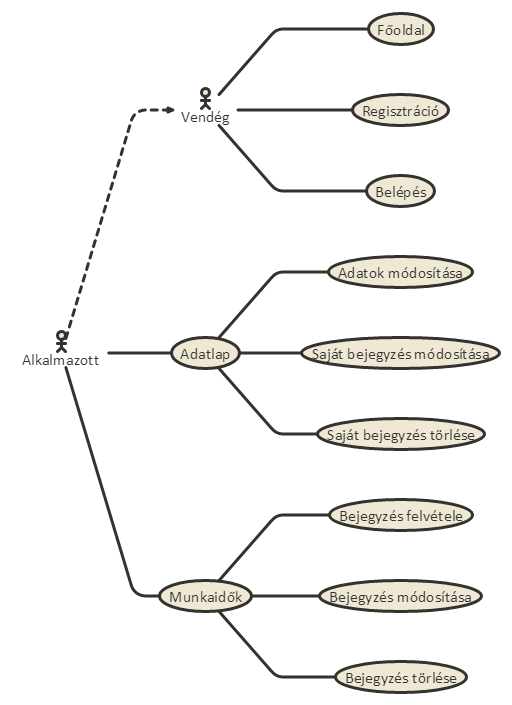
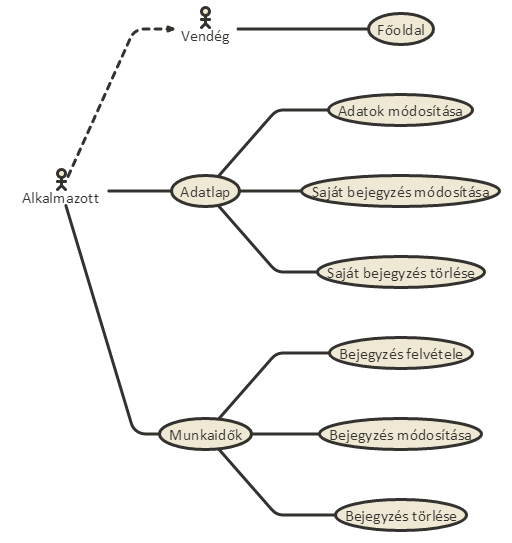
third commit

diff --git a/tests/integration/components/update-workrecord-form-test.js b/tests/integration/components/update-workrecord-form-test.js
@@ -1,0 +1,25 @@
+import { moduleForComponent, test } from 'ember-qunit';
+import hbs from 'htmlbars-inline-precompile';
+
+moduleForComponent('update-workrecord-form', 'Integration | Component | update workrecord form', {
+  integration: true
+});
+
+test('it renders', function(assert) {
+  
+  // Set any properties with this.set('myProperty', 'value');
+  // Handle any actions with this.on('myAction', function(val) { ... });" + EOL + EOL +
+
+  this.render(hbs`{{update-workrecord-form}}`);
+
+  assert.equal(this.$().text().trim(), '');
+
+  // Template block usage:" + EOL +
+  this.render(hbs`
+    {{#update-workrecord-form}}
+      template block text
+    {{/update-workrecord-form}}
+  `);
+
+  assert.equal(this.$().text().trim(), 'template block text');
+});

diff --git a/app/controllers/update-workrecord.js b/app/controllers/update-workrecord.js
@@ -1,0 +1,18 @@
+import Ember from 'ember';
+
+export default Ember.Controller.extend({
+    actions: {
+        updateWorkrecord: function(id, data) {
+            console.log("Workrecord update start");
+            this.store.findRecord("workrecord", id).then(function(workrecord) {
+                workrecord.set("project", data.project);
+                workrecord.set("date", data.date);
+                workrecord.set("begin", data.begin);
+                workrecord.set("end", data.end);
+                
+                workrecord.save();
+            });
+            console.log("Workrecord update success");
+        }
+    }
+});

diff --git a/app/components/update-workrecord-form.js b/app/components/update-workrecord-form.js
@@ -3,12 +3,11 @@ import Ember from 'ember';
 export default Ember.Component.extend({
     actions: {
         onSubmit: function () {
-            this.get('onSave')({
-                employee: $('.employee select:nth-of-type(1)').val(),
+            this.get('onUpdate')({
                 project: $('[name="project"]').val(),
                 date: $('[name="date"]').val(),
                 begin: $('[name="begin"]').val(),
-                end: $('[name="end"]').val()
+                end: $('[name="end"]').val(),
             });
             //this.onSave();
         }

diff --git a/app/routes/profile.js b/app/routes/profile.js
@@ -3,8 +3,8 @@ import Ember from 'ember';
 export default Ember.Route.extend({
     model() {
         return {
-            Employee: this.store.findRecord("employee", "UcvHiZV8m9bFx+hTWUKF")
-            /*Delete-employee: this.store.findRecord("employee", "UcvHiZV8m9bFx+hTWUKF").then(function(employee) {
+            Employee: this.store.findRecord("employee", "l68LwFAElrUmvvOPbbMt")
+            /*Deleteemployee: this.store.findRecord("employee", "/g3AqmuNfceIfI6pQHma").then(function(employee) {
                 employee.destroyRecord();
             })*/
         };

diff --git a/app/controllers/profile.js b/app/controllers/profile.js
@@ -3,7 +3,7 @@ import Ember from 'ember';
 export default Ember.Controller.extend({
     actions: {
         deleteWorkrecord: function (id) {
-            this.store.findRecord('employee', 'UcvHiZV8m9bFx+hTWUKF').then(function(emp) {
+            this.store.findRecord('employee', 'l68LwFAElrUmvvOPbbMt').then(function(emp) {
                 emp.set("workrecords", emp.get("workrecords").removeObject(id));
                 emp.save();
             });

diff --git a/tests/unit/controllers/update-workrecord-test.js b/tests/unit/controllers/update-workrecord-test.js
@@ -1,0 +1,12 @@
+import { moduleFor, test } from 'ember-qunit';
+
+moduleFor('controller:update-workrecord', 'Unit | Controller | update workrecord', {
+  // Specify the other units that are required for this test.
+  // needs: ['controller:foo']
+});
+
+// Replace this with your real tests.
+test('it exists', function(assert) {
+  let controller = this.subject();
+  assert.ok(controller);
+});

diff --git a/tests/unit/routes/update-workrecord-test.js b/tests/unit/routes/update-workrecord-test.js
@@ -1,0 +1,11 @@
+import { moduleFor, test } from 'ember-qunit';
+
+moduleFor('route:update-workrecord', 'Unit | Route | update workrecord', {
+  // Specify the other units that are required for this test.
+  // needs: ['controller:foo']
+});
+
+test('it exists', function(assert) {
+  let route = this.subject();
+  assert.ok(route);
+});

diff --git a/app/router.js b/app/router.js
@@ -9,6 +9,7 @@ Router.map(function() {
   this.route('profile');
   this.route('new-workrecord');
   this.route('workrecords');
+  this.route('update-workrecord', {path: "/workrecords/:workrecord_id"});
 });
 
 export default Router;

diff --git a/app/routes/update-workrecord.js b/app/routes/update-workrecord.js
@@ -1,0 +1,7 @@
+import Ember from 'ember';
+
+export default Ember.Route.extend({
+    model(params) {
+        return this.store.findRecord("workrecord", params.workrecord_id);
+    }
+});

diff --git a/README.md b/README.md
@@ -10,8 +10,8 @@ Internet hozzáférés mellett platformfüggetlenül.
 
 #### Funkcionális elvárások
 * **Vendégként**,
-    * Szeretnék regisztrálni, hogy ügyfél lehessek. --> Regisztráció
-    * Szeretnék bejelentkezni az alkalmazásba. --> Bejelentkezés
+    * Szeretnék bejelentkezni az alkalmazásba.
+
 * **Alkalmazott**,
     * Szeretnék új bejegyzéseket felvenni
     * Szeretnék meglévő bejegyzéseket szerkeszteni
@@ -21,8 +21,7 @@ Internet hozzáférés mellett platformfüggetlenül.
     * Szeretném látni az összes bejegyzést
     * Szeretném a szünetemet módosítani
 
-* A funkciók csak bejelentkezett ügyfelek számára elérhetőek, kivéve a regisztráció. 
-A belépéshez szükséges adatok adatbázisban tárolódnak, ezek segítségével történik az autentikáció.
+* A funkciók csak bejelentkezett felhasználók számára elérhetőek.
 A főoldalon esetleg információk jelenhetnek meg az alkalmazással kapcsolatban.
 
 
@@ -60,13 +59,10 @@ Ha a regisztráció sikertelen az alkalmazás egy hibaüzenetben tájékoztatja 
 _Publikus:_
 
 * Főoldal
-* Regisztráció
-* Bejelentkezés
 
 _Alkalmazott:_
 
 * Főoldal
-* Bejelentkezés
 * Adatlap
     * Személyes adatok módosítása
     * Saját munkaidők listája
@@ -79,31 +75,19 @@ _Alkalmazott:_
 
 #### Végpontok
 * GET / : Főoldal
-* GET /login : Belépés oldal
-* POST /login : Belpési adatok elküldése
-* GET /reg : Regisztrációs oldal
-* POST /reg : Alkalmazott felvétele
 * GET /profile : Adatlap oldal
 * UPDATE /profile : Adatlap módosítása, szünet módosítása
 * DELETE /profile : Munkaidő törlése
-* GET /times : Munkaidők oldal
-* POST /times : Új bejegyzés létrehozása
-* UPDATE /times : Bejegyzés szerkesztése
-* DELETE /times : Bejegyzés törlése
+* GET /workrecords : Munkaidők oldal
+* POST /workrecords : Új bejegyzés létrehozása
+* UPDATE /workrecords : Bejegyzés szerkesztése
+* DELETE /workrecords : Bejegyzés törlése
 
 ### Felhasználóifelület-modell (Oldalvázlatok)
 
-**_Regisztráció_**
+**_Főoldal_**
 
 ![Index mockup](docs/images/mockups/index.jpg)
-
-**_Regisztráció_**
-
-![Registration mockup](docs/images/mockups/reg.jpg)
-
-**_Bejelentkezés_**
-
-![Log in mockup](docs/images/mockups/login.jpg)
 
 **_Adatlap_**
 
@@ -112,6 +96,10 @@ _Alkalmazott:_
 **_Munkaidők_**
 
 ![Workrecords mockup](docs/images/mockups/workrecords.jpg)
+
+**_Bejegyzés (munkaidő) módosítása_**
+
+![Update workrecords mockup](docs/images/mockups/update.jpg)
 
 ### Osztálymodell
 
@@ -150,11 +138,13 @@ kialakításához a Bootstrap és Bootswatch nyújtotta megoldásokat használtu
     * /application.js
 
 * **/app/component**
+    * /update-workrecord-form.js
     * /workrecord-form.js
     
 * **/app/controllers**
     * /new-workrecord.js
     * /profile.js
+    * /update-workrecord.js
     * /workrecords.js
     
 * **/app/models**
@@ -165,35 +155,30 @@ kialakításához a Bootstrap és Bootswatch nyújtotta megoldásokat használtu
     * /index.js
     * /new-time.js
     * /profile.js
+    * /update-workrecord.js
     * /workrecords.js
 
 * **/app/templates**
+    * /components/update-workrecord-form.hbs
     * /components/time-form.hbs
     * /application.hbs
     * /index.hbs
-    * /new-time.hbs
+    * /new-workrecord.hbs
     * /profile.hbs
+    * /update-workrecord.hbs
     * /workrecords.hbs
 
 ## IV. Tesztelés
 
 Tesztesetek:
 
-1. Regisztráció helyes adatokkal
+1. Adatlap szerkesztése
 
-2. Regisztráció helytelen adatokkal
+2. Szünet módosítása
 
-3. Bejelentkezés hejes adatokkal
+3. Bejegyzés felvétele
 
-4. Bejelentkezés hibás adatokkal
-
-5. Adatlap szerkesztése
-
-6. Szünet módosítása
-
-7. Bejegyzés felvétele
-
-8. Bejegyzés módosítása
+4. Bejegyzés módosítása
 
 
 ## V. Felhasználói dokumentáció
